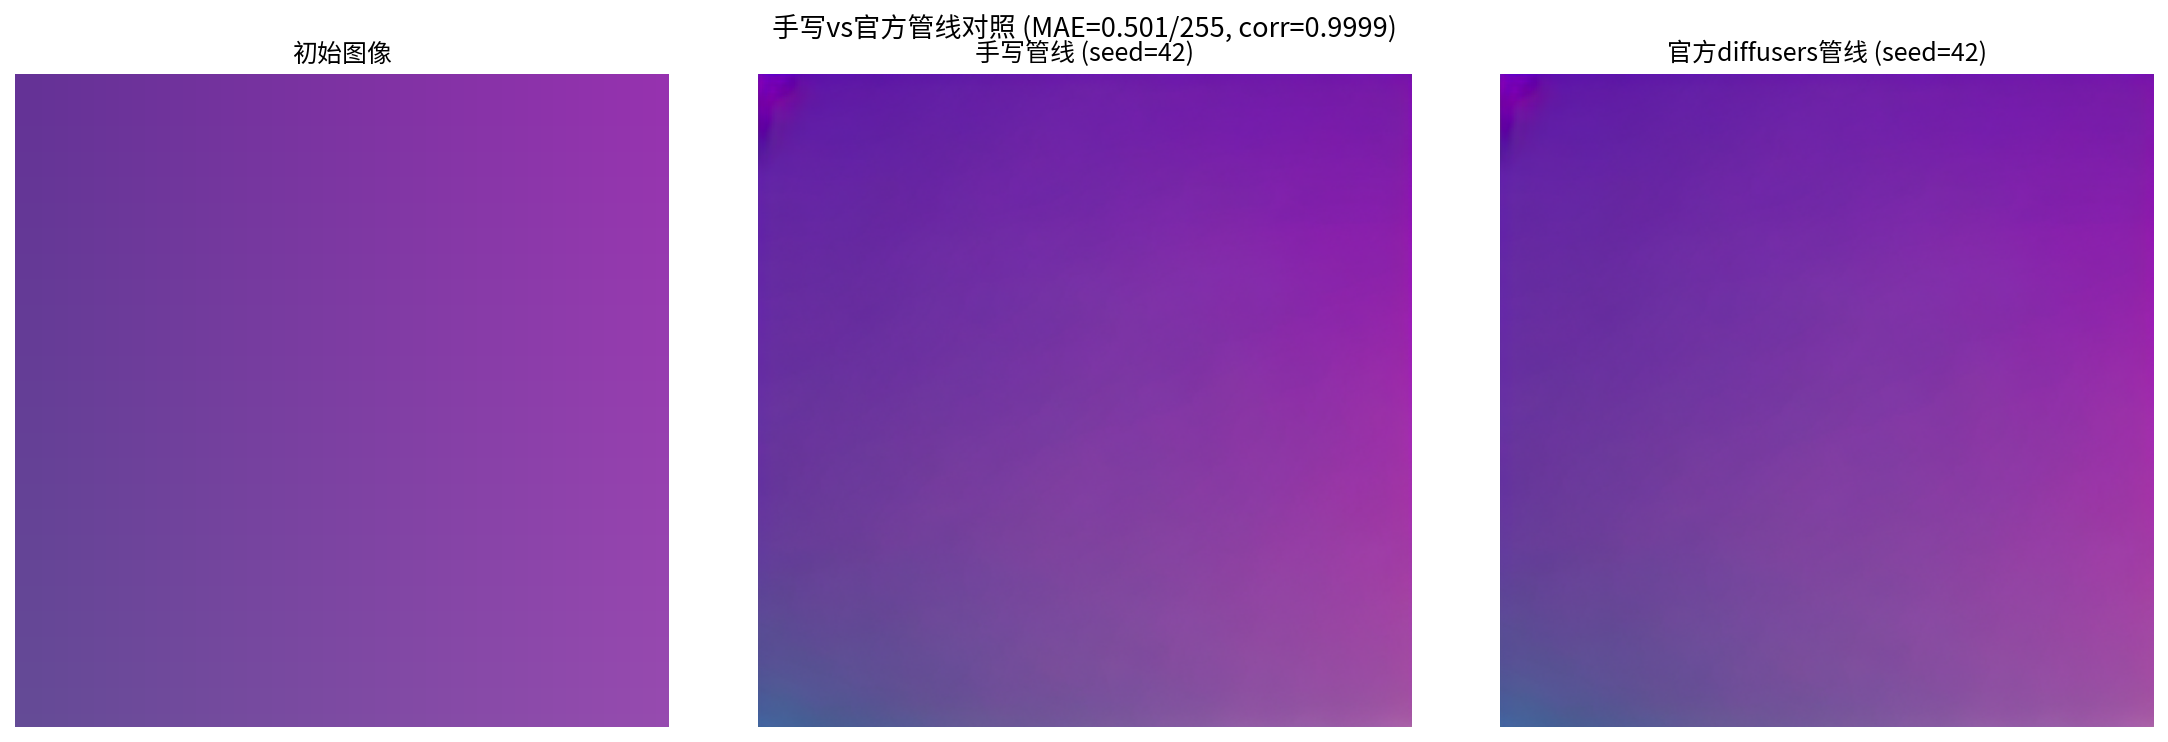
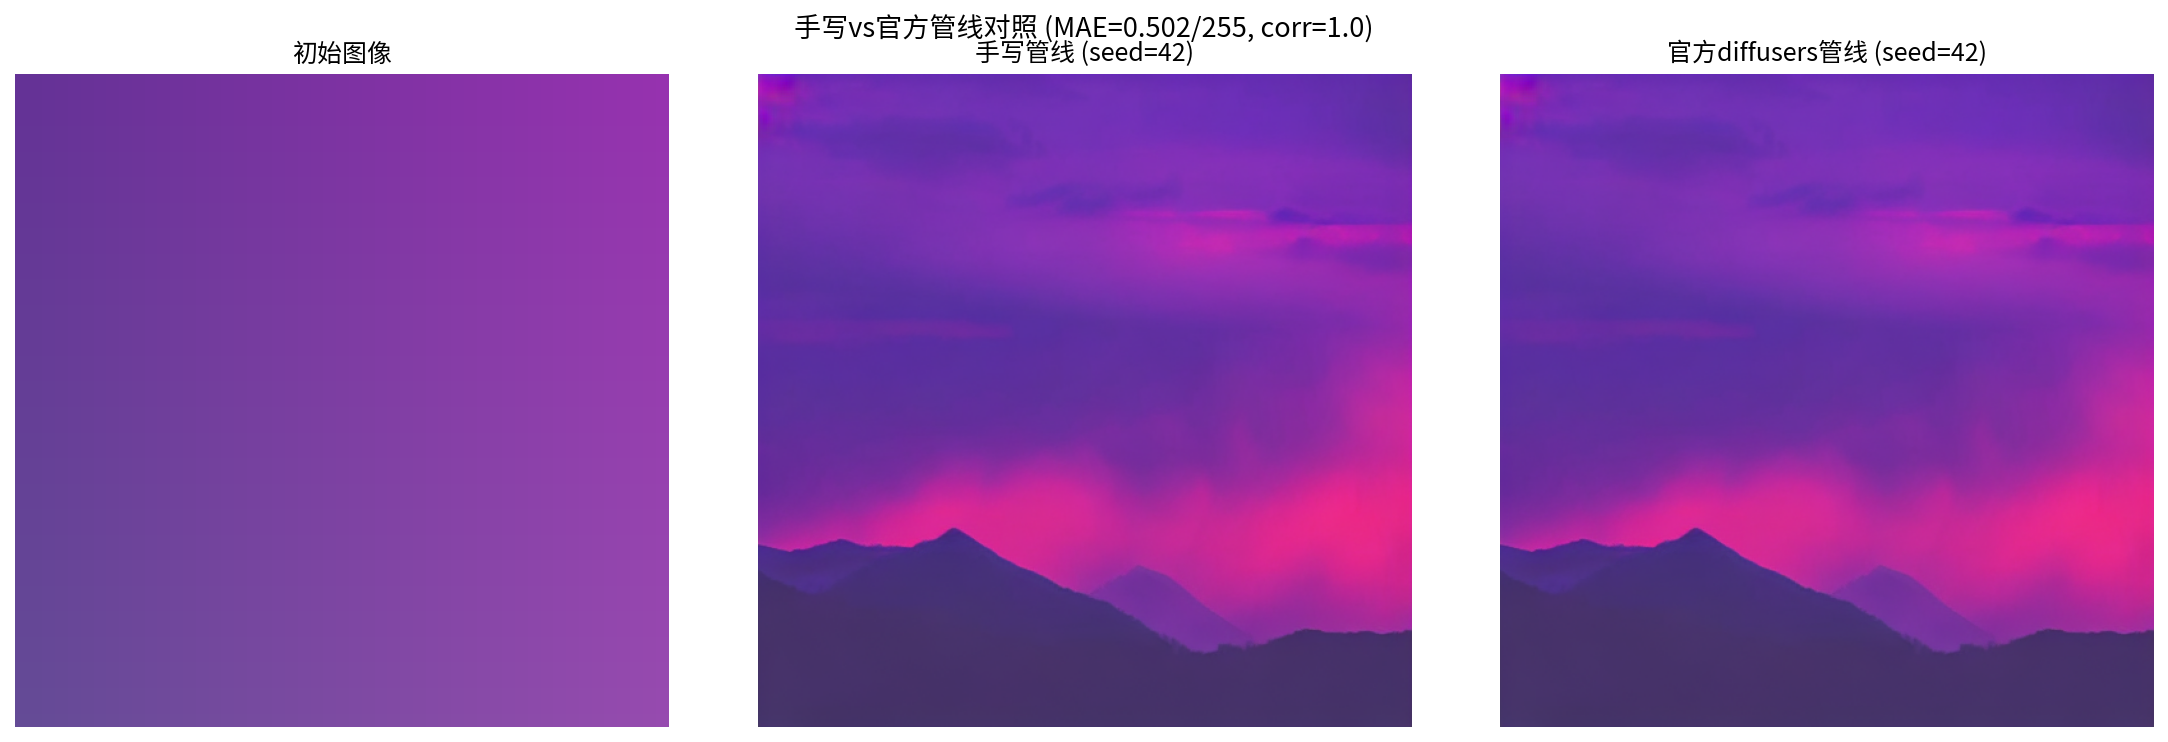
1

diff --git a/第13章 条件生成与逆问题求解/第十三章 配套实验/实验13.6-4/13.6-4.py b/第13章 条件生成与逆问题求解/第十三章 配套实验/实验13.6-4/13.6-4.py
@@ -197,8 +197,21 @@ print("=" * 60)
 
 # ===== 实验配置（无论是否实际生成都作为"预期配置"记录）=====
 MODEL_ID = "CompVis/stable-diffusion-v1-4"
-PROMPT = "purple gradient sunset over mountains, high quality"
-STRENGTH = 0.8
+# prompt变更（2026-10-05，有证据支持的单因子调整，strength等其余配置一律不动）：
+# 旧prompt "purple gradient sunset over mountains, high quality" 中的 "gradient" 是自描述词，
+# 模型忠实地渲染"紫色渐变"，在无结构的平滑初始图上压制了mountains语义——
+# diffusers 0.40.0下4/4种子与官方管线（MAE=0.50/255, corr=0.9999）均稳定输出平滑渐变。
+# 新prompt去掉gradient、强化山的结构词，保留purple以与初始图紫色调的保留演示相洽。
+PROMPT = ("a dramatic sunset over dark mountain silhouettes, "
+          "purple and orange sky with glowing clouds, "
+          "highly detailed landscape photo")
+OLD_PROMPT = "purple gradient sunset over mountains, high quality"
+OLD_STRENGTH = 0.8
+# strength变更（2026-10-05，第二轮单因子调整，新prompt及其余配置全部冻结）：
+# 新prompt在strength=0.8下4/4种子出现天空/云层结构，但只有2/4出现山脉（seed=123清晰剪影、
+# seed=2024小山峰），未达预设的≥3/4稳健线。提高strength到0.9给文本引导更大去噪空间，
+# 代价是初始图保留更少（初始图本身无结构，可接受）。验收仍以4种子扫描≥3/4出现可辨识山脉为准。
+STRENGTH = 0.9
 GUIDANCE_SCALE = 7.5
 NUM_INFERENCE_STEPS = 50
 SEED = 42
@@ -509,14 +522,36 @@ results_summary = {
     "device": str(device) if device is not None else "n/a",
     "初始图": "代码内numpy生成的512x512蓝紫渐变（无外部图片依赖）",
     "prompt": PROMPT,
+    "prompt变更记录": {
+        "旧prompt": OLD_PROMPT,
+        "新prompt": PROMPT,
+        "变更日期": "2026-10-05",
+        "变更原因": "旧prompt中的自描述词gradient引导模型渲染平滑渐变，在无结构渐变初始图上压制mountains语义；"
+                    "diffusers 0.40.0下4/4种子及官方管线均无山脉（手写vs官方MAE=0.50/255, corr=0.9999，已排除实现问题）",
+        "实验纪律": "仅改prompt单因子，strength/guidance_scale/步数/初始图/种子全部冻结；"
+                    "是否恢复山脉语义以本次seed扫描4个面板的人工判读为准，不据此挑选单个种子",
+    },
     "strength": STRENGTH,
+    "strength变更记录": {
+        "原值": OLD_STRENGTH,
+        "新值": STRENGTH,
+        "变更日期": "2026-10-05",
+        "变更原因": "新prompt在0.8下4/4出天空结构但仅2/4出山脉，未达预设≥3/4稳健线；"
+                    "提高strength给文本引导更大去噪空间（初始图本身无空间结构，保留更少可接受）",
+        "实验纪律": "仅改strength单因子，prompt/guidance_scale/步数/初始图/种子全部冻结；"
+                    "以4种子扫描≥3/4出现可辨识暗色山脊为验收线，不以单个种子下结论",
+    },
     "guidance_scale": GUIDANCE_SCALE,
     "seed": SEED,
     "num_inference_steps": NUM_INFERENCE_STEPS,
     "加噪起点": (
         f"实际起始timestep={actual_start_t}, alpha_bar={actual_alpha_bar:.4f}, "
         f"逆向去噪{actual_denoise_steps}步（timestep取整/offset随diffusers版本略有差异，以本次实测为准）"
-    ) if generation_ok else "int(50*0.8)=40, t_start=10, 实际timestep以scheduler运行时为准",
+    ) if generation_ok else (
+        f"配置值: num_inference_steps={NUM_INFERENCE_STEPS}, strength={STRENGTH} "
+        f"→ 从t_start={NUM_INFERENCE_STEPS - int(NUM_INFERENCE_STEPS * STRENGTH)}起"
+        f"去噪约{int(NUM_INFERENCE_STEPS * STRENGTH)}步, "
+        "实际timestep以scheduler运行时为准"),
     "CFG实现": "显式uncond/cond拼接 + 线性混合 eps_uncond+s*(eps_cond-eps_uncond)，与diffusers官方StableDiffusionImg2ImgPipeline逐项等价",
     "随机源": "VAE latent采样与加噪均传入同一个generator，同环境同版本下结果可复现",
     "依赖版本": dep_versions,
